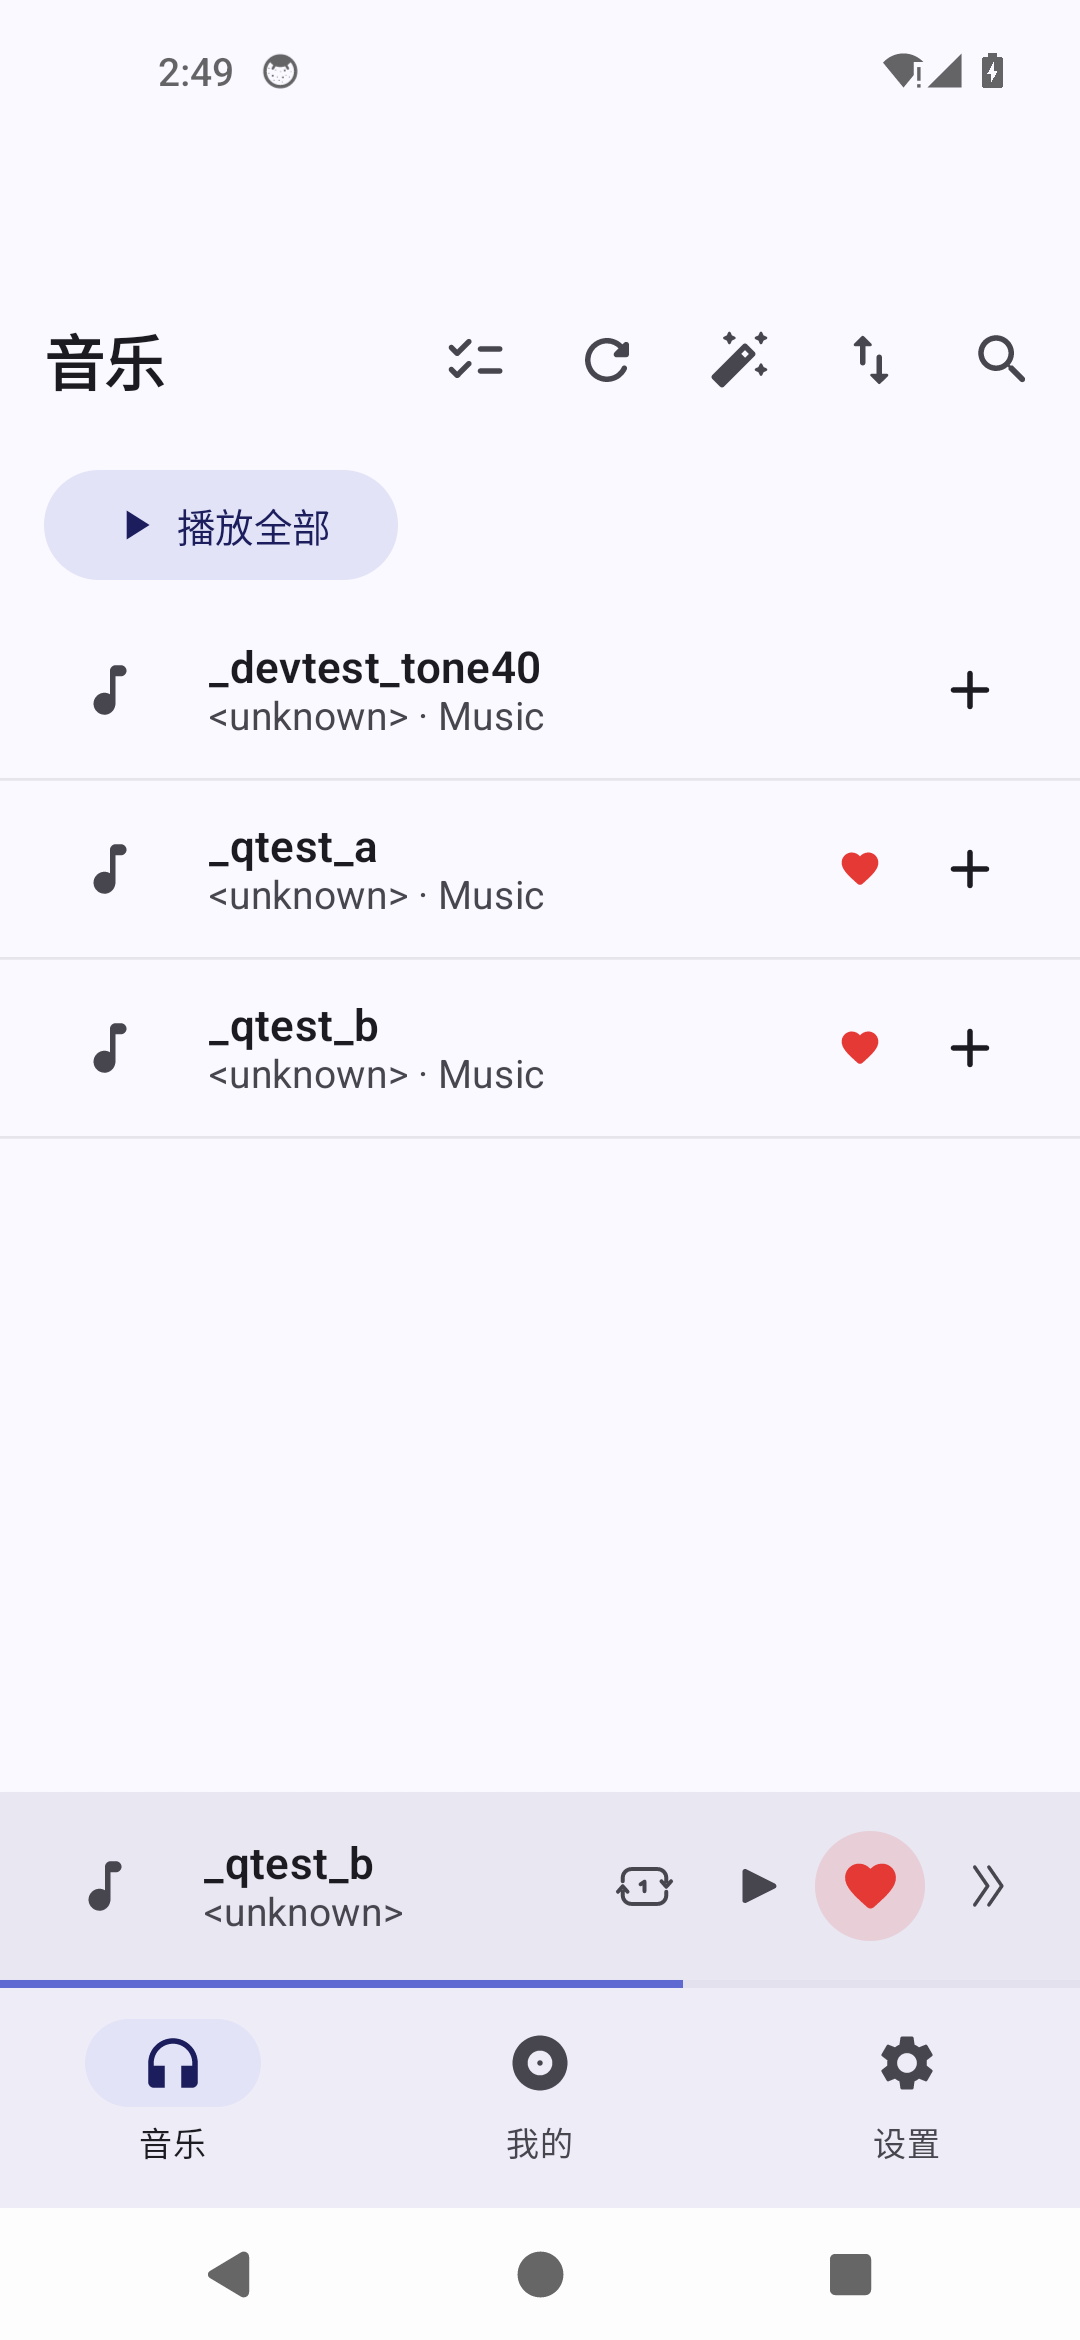
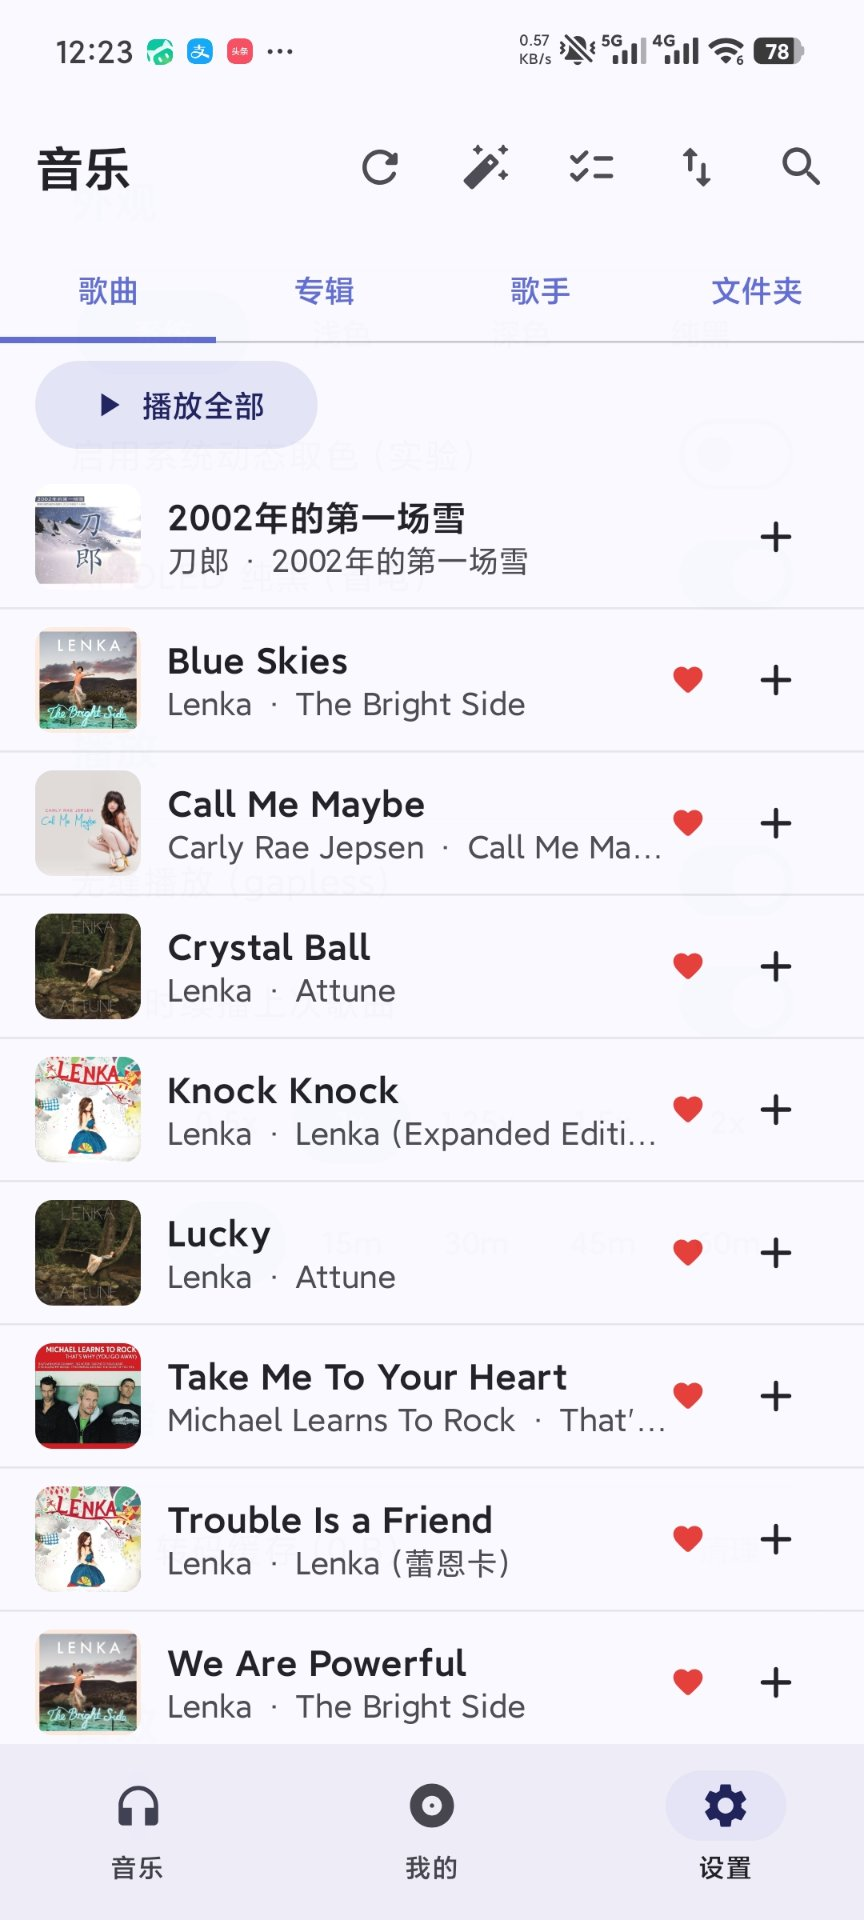
docs: 更新 README 截图为 v1.5.0 真机截图（6 张 → 9 张）
用户提供 8 张 v1.5.0 真机截图，替换 docs/screenshots 下全部旧图：
- 01_music 音乐库·歌曲列表（新）
- 02_albums 专辑方形封面网格墙（新增页）
- 03_artists 歌手圆形头像列表（新增页）
- 04_player_lyrics 播放页·歌词居中悬浮（替换旧 02_player）
- 05_player_cover 播放页·旋转 CD 唱盘封面（新增）
- 06_me 我的音乐（替换旧 04_me）
- 07_stats 听歌数据（替换旧 05_stats）
- 08_settings 设置页（替换旧 06_settings，可见主题分段/AMOLED/倍速定时）
- 09_queue 播放队列浮层（原 03_queue，UI 未变，保留并改编号）

README 预览表改为 3×3 布局；顺带补全版本历史 v1.3.1~v1.5.0
与构建示例产物名（v1.3.0 → v1.5.0）。

diff --git a/README.md b/README.md
@@ -7,13 +7,17 @@
 
 ## 📸 界面预览
 
-| 音乐库 | 播放页 | 播放队列 |
+| 音乐库 · 歌曲 | 专辑网格 | 歌手列表 |
 | --- | --- | --- |
-| ![音乐库](docs/screenshots/01_music.png) | ![播放页](docs/screenshots/02_player.png) | ![播放队列](docs/screenshots/03_queue.png) |
+| ![音乐库](docs/screenshots/01_music.png) | ![专辑](docs/screenshots/02_albums.png) | ![歌手](docs/screenshots/03_artists.png) |
 
-| 我的 | 听歌统计 | 设置 |
+| 播放页 · 歌词 | 播放页 · 封面 | 播放队列 |
 | --- | --- | --- |
-| ![我的](docs/screenshots/04_me.png) | ![听歌统计](docs/screenshots/05_stats.png) | ![设置](docs/screenshots/06_settings.png) |
+| ![播放页歌词](docs/screenshots/04_player_lyrics.png) | ![播放页封面](docs/screenshots/05_player_cover.png) | ![播放队列](docs/screenshots/09_queue.png) |
+
+| 我的 | 听歌数据 | 设置 |
+| --- | --- | --- |
+| ![我的](docs/screenshots/06_me.png) | ![听歌数据](docs/screenshots/07_stats.png) | ![设置](docs/screenshots/08_settings.png) |
 
 ---
 
@@ -114,8 +118,8 @@ keyPassword=你的密钥口令
 
 ```bash
 ./gradlew assembleRelease
-# 产物：app/build/outputs/apk/release/PureTone-v1.3.0-universal-release.apk
-#       app/build/outputs/apk/release/PureTone-v1.3.0-arm64-v8a-release.apk
+# 产物：app/build/outputs/apk/release/PureTone-v1.5.0-universal-release.apk
+#       app/build/outputs/apk/release/PureTone-v1.5.0-arm64-v8a-release.apk
 ```
 
 > `dist/` 目录存放各版本已签名的发布包与交付证据（SHA-256 / apksigner 校验记录）。
@@ -153,6 +157,11 @@ keyPassword=你的密钥口令
 | v1.1.9 | 列表 `key` 防串位、长按操作菜单、收藏跨入口实时同步（Room 派生真源） |
 | v1.2.0 | 播放队列浮层精简、循环图标圆角重设计、播放卡片新增「播放顺序/喜欢」对称按钮、切换按钮中性化 |
 | v1.3.0 | 迷你播放条精简为三按钮；音乐页新增 歌曲/专辑/歌手/文件夹 四页签；专辑方形封面网格墙；专辑/歌手/文件夹二级详情页 |
+| v1.3.1 | 首轮代码审查（CODE_REVIEW）P0~P3 全量修复 |
+| v1.3.2 | 修复「进播放页被自动暂停」；SQL 批量参数分片等崩溃防护 |
+| v1.4.0 | 第二轮代码审查全量修复：统计虚高、APE 转码期队列竞态、MediaSession 准入白名单、睡眠定时墙钟基准等 |
+| v1.4.1 | 歌词高亮居中悬浮；设置页子项高度统一；听歌数据页配色对齐 |
+| v1.5.0 | 第三轮复审按序修复：主题行高度统一、续播恢复竞态、APE 锁原子化、均衡器主开关语义、Room v5 索引迁移、封面占位 URI 清理等 |
 
 ---
 
